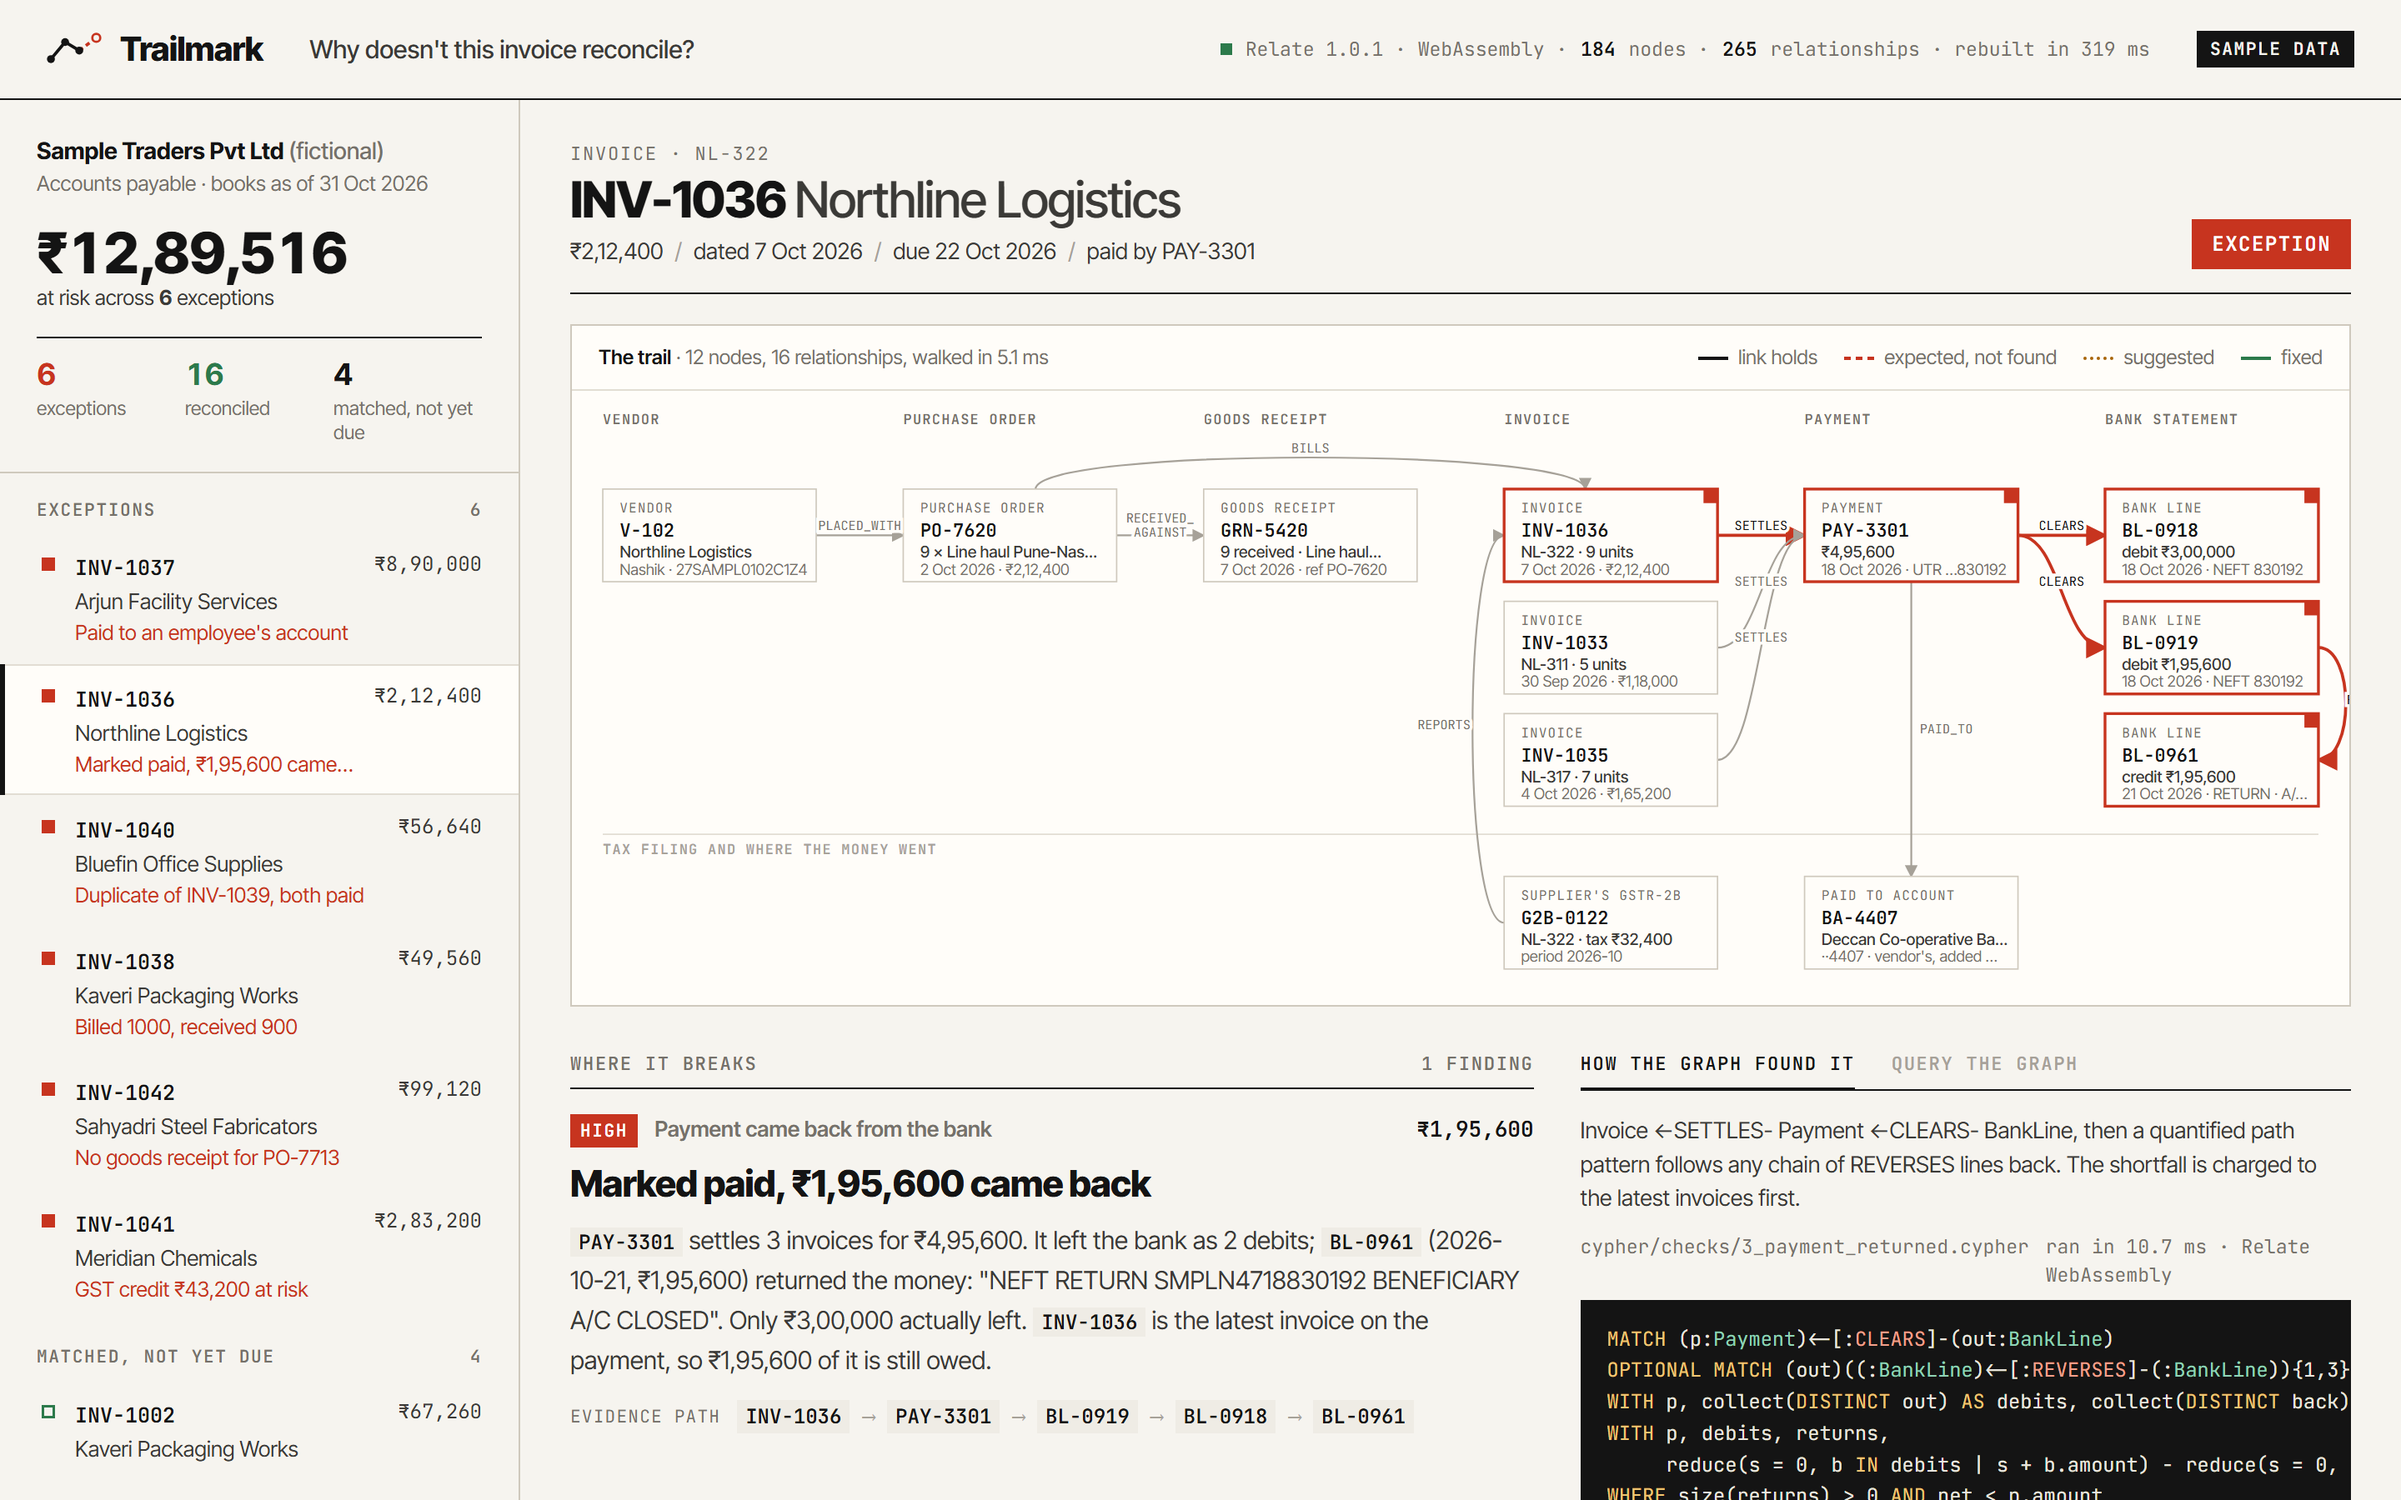
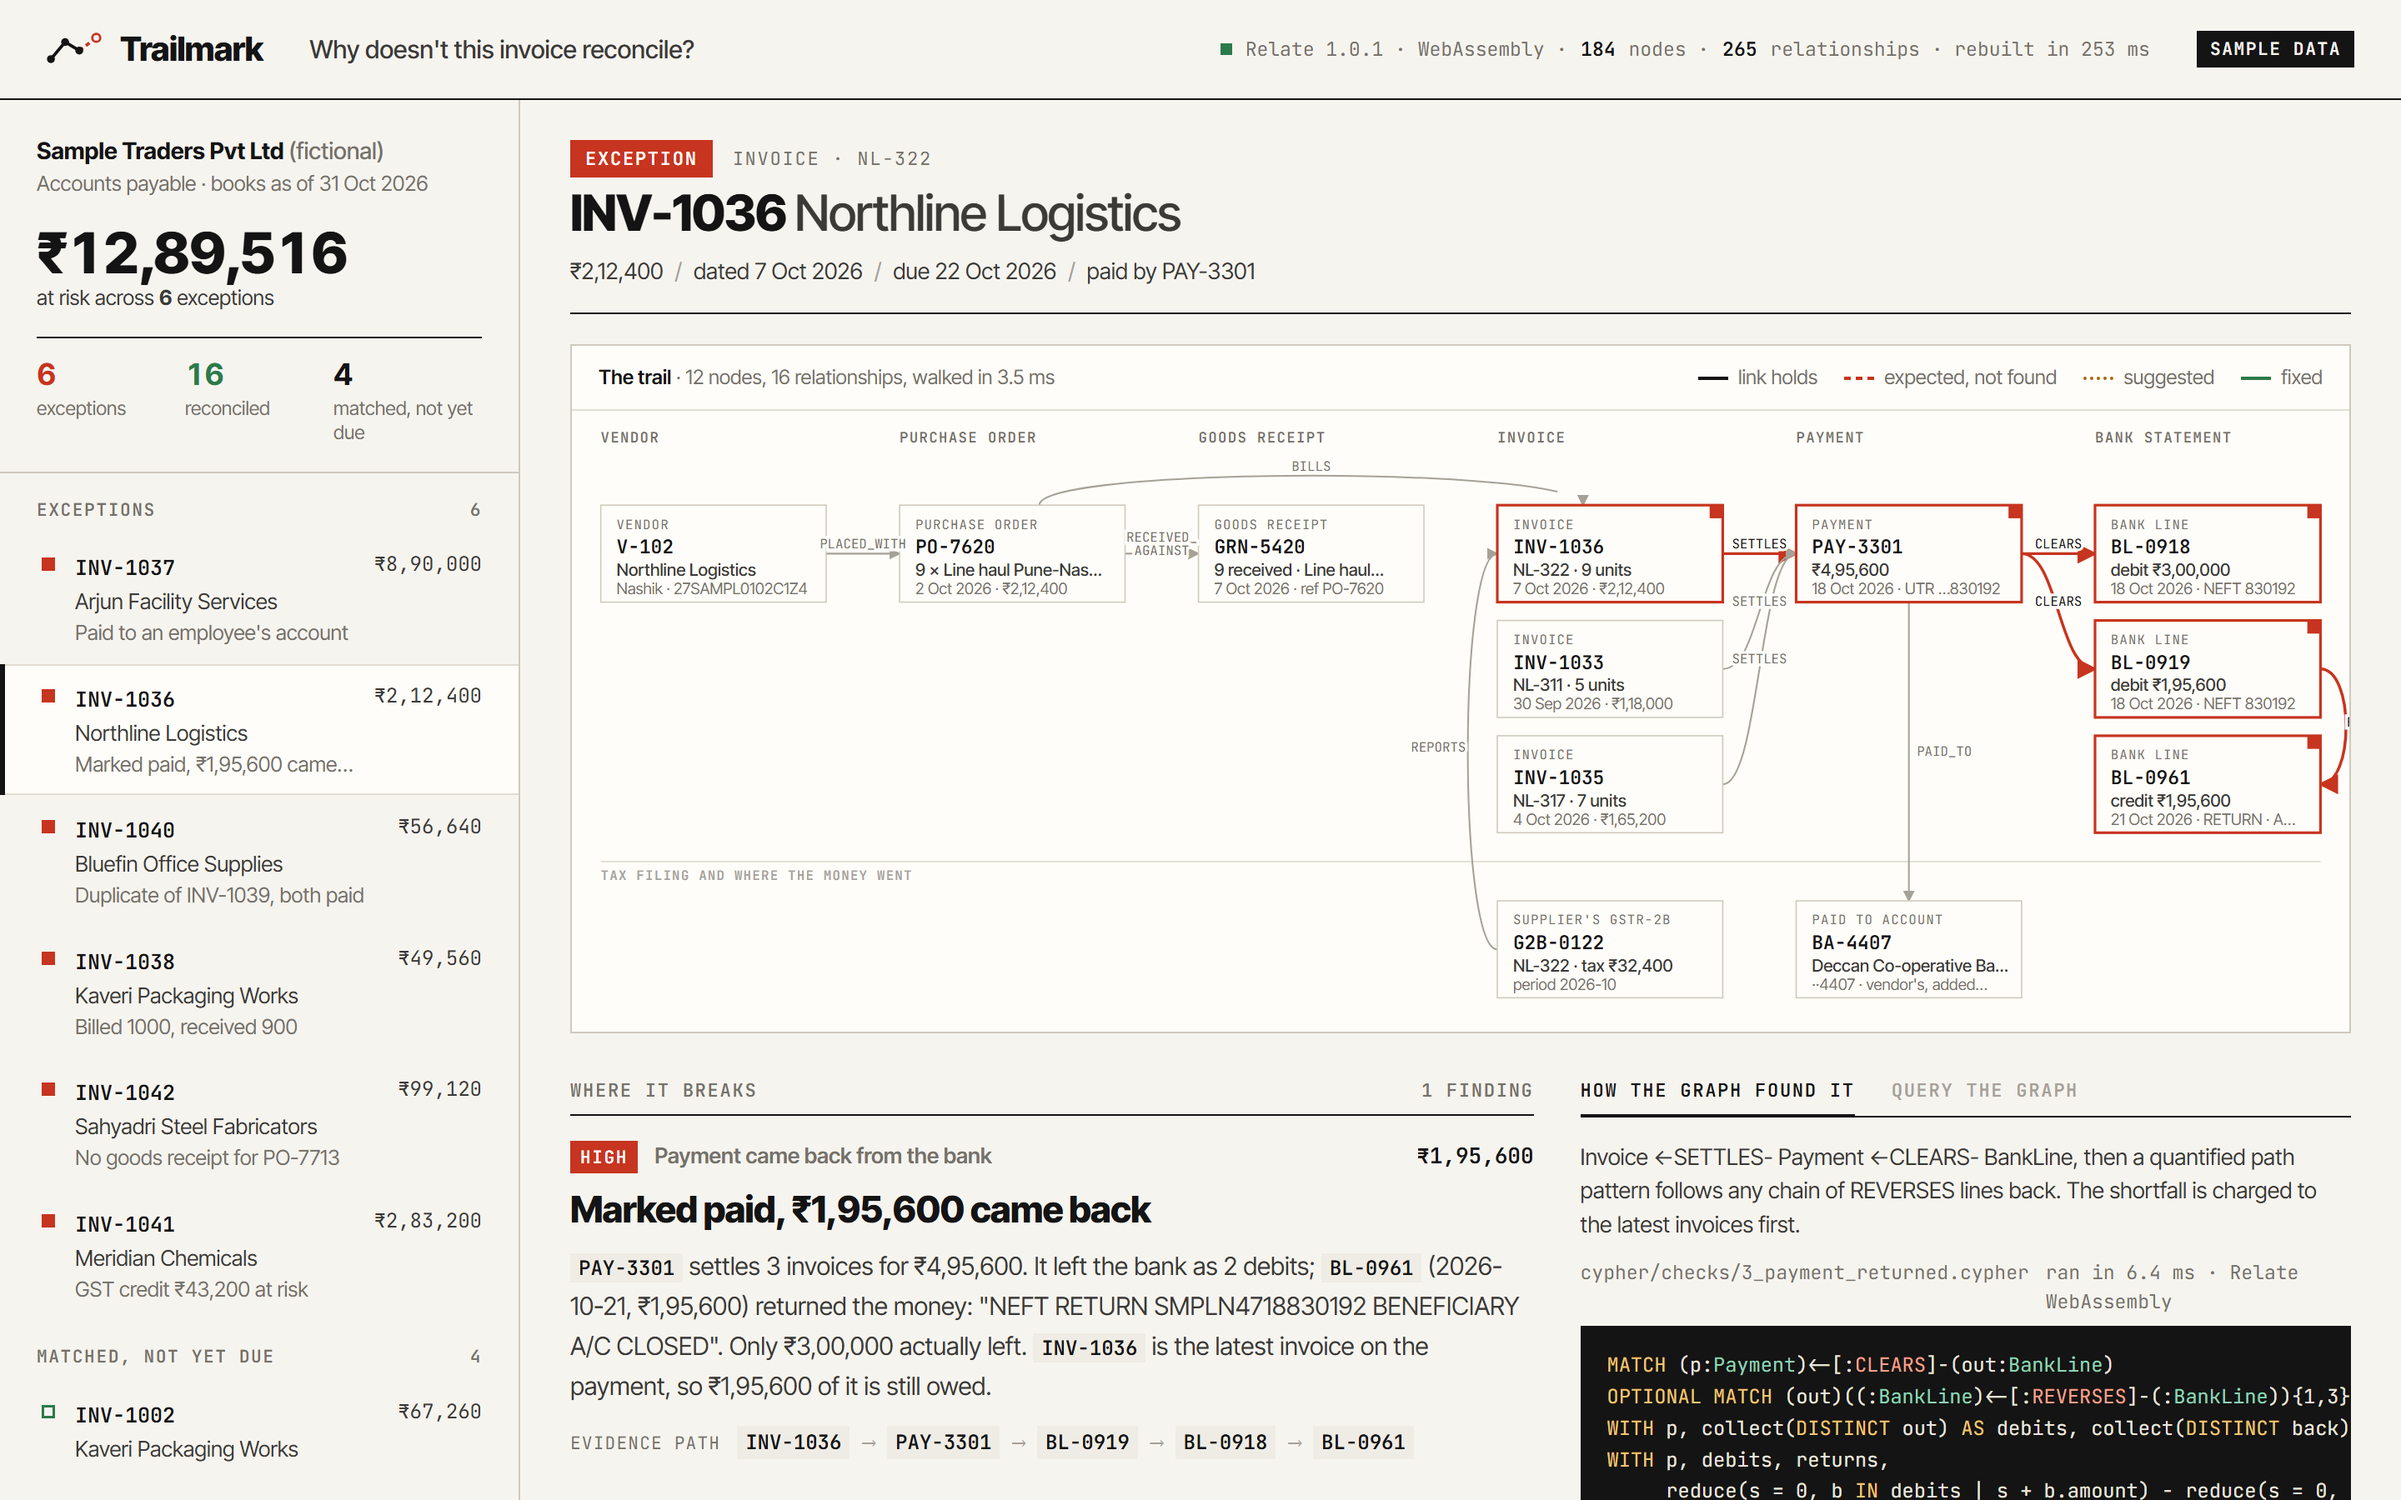
Design pass: larger trail text, anchored status, people laid out under the money

diff --git a/web/style.css b/web/style.css
@@ -75,7 +75,7 @@ button { font: inherit; color: inherit; }
 .row .who { min-width: 0; }
 .row .id { font-family: var(--mono); font-size: 12.5px; font-weight: 600; }
 .row .v { display: block; font-size: 13px; color: var(--ink-2); white-space: nowrap; overflow: hidden; text-overflow: ellipsis; }
-.row .why { display: block; font-size: 12.5px; color: var(--red); white-space: nowrap; overflow: hidden; text-overflow: ellipsis; }
+.row .why { display: block; font-size: 12.5px; color: var(--ink-3); white-space: nowrap; overflow: hidden; text-overflow: ellipsis; }
 .row .amt { font-family: var(--mono); font-size: 12px; padding-top: 1px; color: var(--ink-2); font-variant-numeric: tabular-nums; }
 
 /* ---------- stage ---------- */
@@ -83,13 +83,14 @@ button { font: inherit; color: inherit; }
 .ld-line { height: 2px; background: linear-gradient(90deg, var(--ink) 0 30%, transparent 30%); background-size: 200% 100%; animation: ld 1s linear infinite; margin-bottom: 14px; }
 @keyframes ld { from { background-position: 100% 0; } to { background-position: -100% 0; } }
 
-.inv-head { display: grid; grid-template-columns: minmax(0, 1fr) auto; gap: 18px; align-items: end; padding-bottom: 14px; border-bottom: 1px solid var(--ink); }
+.inv-head { display: block; padding-bottom: 14px; border-bottom: 1px solid var(--ink); }
 .inv-kicker { font-family: var(--mono); font-size: 11px; letter-spacing: .08em; text-transform: uppercase; color: var(--ink-3); }
-.inv-title { margin: 2px 0 0; font-size: 30px; font-weight: 800; letter-spacing: -.025em; line-height: 1.15; }
+.inv-title { margin: 4px 0 8px; font-size: 30px; font-weight: 800; letter-spacing: -.025em; line-height: 1.15; }
 .inv-title .vn { font-weight: 500; color: var(--ink-2); }
 .inv-meta { margin-top: 4px; font-size: 13.5px; color: var(--ink-2); }
 .inv-meta .sep { color: var(--ink-4); margin: 0 7px; }
-.status { font-family: var(--mono); font-size: 12px; font-weight: 600; letter-spacing: .06em; text-transform: uppercase; padding: 6px 12px; white-space: nowrap; transition: background .35s, color .35s; }
+.inv-kicker { display: flex; align-items: center; gap: 12px; }
+.status { font-family: var(--mono); font-size: 11px; font-weight: 700; letter-spacing: .08em; text-transform: uppercase; padding: 3px 9px; white-space: nowrap; transition: background .35s, color .35s; }
 .status.exception { background: var(--red); color: #fff; }
 .status.matched, .status.reconciled { background: var(--green); color: #fff; }
 .status.overdue { background: var(--amber); color: #fff; }
@@ -105,7 +106,7 @@ button { font: inherit; color: inherit; }
 .legend i.ok { border-top-color: var(--green); }
 .trail-scroll { overflow-x: auto; }
 svg.trail { display: block; width: 100%; min-width: 900px; height: auto; font-family: var(--sans); }
-.lane-h { font-family: var(--mono); font-size: 10px; font-weight: 600; letter-spacing: .08em; text-transform: uppercase; fill: var(--ink-3); }
+.lane-h { font-family: var(--mono); font-size: 11px; font-weight: 600; letter-spacing: .08em; text-transform: uppercase; fill: var(--ink-3); }
 .lane-rule { stroke: var(--rule); stroke-width: 1; }
 .band-h { font-family: var(--mono); font-size: 10px; font-weight: 600; letter-spacing: .08em; text-transform: uppercase; fill: var(--ink-4); }
 
@@ -113,14 +114,14 @@ svg.trail { display: block; width: 100%; min-width: 900px; height: auto; font-fa
 .card.ev rect.box { stroke: var(--ink); stroke-width: 1.6; }
 .card.ev.high rect.box { stroke: var(--red); stroke-width: 2; }
 .card.focus rect.box { stroke: var(--ink); stroke-width: 2.4; }
-.card.ghost rect.box { fill: var(--red-bg); stroke: var(--red); stroke-width: 1.6; stroke-dasharray: 5 4; }
+.card.ghost rect.box { fill: #f9ddd7; stroke: var(--red); stroke-width: 2.2; stroke-dasharray: 6 4; }
 .card.cand rect.box { fill: var(--amber-bg); stroke: var(--amber); stroke-width: 1.6; stroke-dasharray: 2 3; }
 .card.fixed rect.box { fill: var(--green-bg); stroke: var(--green); stroke-width: 2; stroke-dasharray: none; }
 .card.dim { opacity: .55; }
-.card .k { font-family: var(--mono); font-size: 9.5px; letter-spacing: .07em; text-transform: uppercase; fill: var(--ink-3); }
-.card .i { font-family: var(--mono); font-size: 13px; font-weight: 600; fill: var(--ink); }
-.card .l1 { font-size: 11.5px; fill: var(--ink-2); font-weight: 500; }
-.card .l2 { font-size: 11px; fill: var(--ink-3); }
+.card .k { font-family: var(--mono); font-size: 10px; letter-spacing: .07em; text-transform: uppercase; fill: var(--ink-3); }
+.card .i { font-family: var(--mono); font-size: 14.5px; font-weight: 600; fill: var(--ink); }
+.card .l1 { font-size: 13px; fill: var(--ink-2); font-weight: 500; }
+.card .l2 { font-size: 12px; fill: var(--ink-3); }
 .card.ghost .k, .card.ghost .l1, .card.ghost .i { fill: var(--red); }
 .card.cand .k { fill: var(--amber); }
 .card .flag { fill: var(--red); }
@@ -131,14 +132,15 @@ svg.trail { display: block; width: 100%; min-width: 900px; height: auto; font-fa
 .edge { fill: none; stroke: var(--ink-4); stroke-width: 1.3; }
 .edge.ev { stroke: var(--ink); stroke-width: 1.8; }
 .edge.ev.high { stroke: var(--red); stroke-width: 2.2; }
-.edge.brk { stroke: var(--red); stroke-width: 2; stroke-dasharray: 6 5; }
+.edge.brk { stroke: var(--red); stroke-width: 3; stroke-dasharray: 7 5; animation: march 0.9s linear infinite !important; }
+@keyframes march { to { stroke-dashoffset: -24; } }
 .edge.sug { stroke: var(--amber); stroke-width: 2; stroke-dasharray: 1.5 4; stroke-linecap: round; }
 .edge.fixed { stroke: var(--green); stroke-width: 2.6; }
 .edge.draw { stroke-dasharray: var(--len); stroke-dashoffset: var(--len); animation: draw .5s ease-out forwards; }
 .edge.brk.draw, .edge.sug.draw { animation: none; stroke-dasharray: 6 5; stroke-dashoffset: 0; }
 .edge.sug.draw { stroke-dasharray: 1.5 4; }
 @keyframes draw { to { stroke-dashoffset: 0; } }
-.elabel { font-family: var(--mono); font-size: 9px; fill: var(--ink-3); paint-order: stroke; stroke: var(--card); stroke-width: 4px; }
+.elabel { font-family: var(--mono); font-size: 10px; fill: var(--ink-3); paint-order: stroke; stroke: var(--card); stroke-width: 4px; }
 .elabel.ev { fill: var(--ink); }
 .elabel.brk { fill: var(--red); font-weight: 600; }
 .elabel.sug { fill: var(--amber); font-weight: 600; }
@@ -214,6 +216,7 @@ table.res td { border-bottom: 1px solid var(--rule); padding: 5px 8px 5px 0; fon
 }
 
 @media (prefers-reduced-motion: reduce) {
+  .edge.brk { animation: none !important; }
   .card.appear, .edge.draw { animation: none !important; stroke-dashoffset: 0; }
   .edge.draw:not(.brk):not(.sug) { stroke-dasharray: none; }
 }

diff --git a/web/app.js b/web/app.js
@@ -113,7 +113,7 @@ const SLOT = { Vendor: [0, 0], PurchaseOrder: [1, 0], GoodsReceipt: [2, 0], Invo
   GstrLine: [3, 1], BankAccount: [4, 1], BankChange: [5, 1], Employee: [5, 2] };
 const KIND = { Vendor: 'Vendor', PurchaseOrder: 'Purchase order', GoodsReceipt: 'Goods receipt', Invoice: 'Invoice', Payment: 'Payment',
   BankLine: 'Bank line', GstrLine: "Supplier's GSTR-2B", BankAccount: 'Paid to account', BankChange: 'Bank detail change', Employee: 'Employee' };
-const W = 152, H = 66, GX = 62, PADX = 22, TOP = 70, VG = 14, BAND = 50;
+const W = 172, H = 74, GX = 56, PADX = 22, TOP = 72, VG = 14, BAND = 52;
 
 function lines(n) {
   const p = n.props;
@@ -140,8 +140,13 @@ function layout(ex) {
   const since = Object.fromEntries(ex.rels.filter((r) => r.type === 'HAS_ACCOUNT' && /^V-/.test(r.from)).map((r) => [r.to, r.props.since]));
   const items = [...ghosts, ...ex.nodes.map((n) => ({ ...n, vendorSince: since[n.id] }))];
   const bySlot = {};
+  // people sit side by side under the money, the most-connected one under the account
+  const deg = (id) => ex.rels.filter((r) => r.from === id || r.to === id).length;
+  const people = items.filter((it) => it.label === 'Employee').sort((a, b) => deg(b.id) - deg(a.id) || a.id.localeCompare(b.id));
+  const PEOPLE_COLS = [4, 5, 3, 2, 1];
+  people.forEach((it, i) => { it.slot = [PEOPLE_COLS[i % 5], 2]; });
   for (const it of items) {
-    const s = SLOT[it.label]; if (!s) continue;
+    const s = it.slot || SLOT[it.label]; if (!s) continue;
     const key = s.join(',');
     (bySlot[key] ||= []).push(it);
   }
@@ -206,7 +211,7 @@ function renderTrail(ex, animate) {
     if (Object.values(L.pos).some((p) => p.it.label === label)) return;
     const x = PADX + c * (W + GX), y = L.rowY[0];
     const note = (label === 'Payment' || label === 'BankLine') && ex.inv.due > S.Q.as_of ? `none yet · due ${nice(ex.inv.due)}` : 'none';
-    cards += `<g class="card dim"><rect class="box" x="${x}" y="${y}" width="${W}" height="${H}" style="stroke-dasharray:2 3"/><text class="l2" x="${x + 12}" y="${y + 38}">${note}</text></g>`;
+    cards += `<g class="card dim"><rect class="box" x="${x}" y="${y}" width="${W}" height="${H}" style="stroke-dasharray:2 3"/><text class="l2" x="${x + 12}" y="${y + 42}">${note}</text></g>`;
   });
   let k = 0;
   const edge = (a, b, cls, label, delay) => {
@@ -244,7 +249,7 @@ function renderTrail(ex, animate) {
       cards += `<g class="card ghost${animate ? ' appear' : ''}" style="animation-delay:${delay + 260}ms" data-id="${it.id}">
         <rect class="box" x="${x}" y="${y}" width="${W}" height="${H}"/>
         <text class="k" x="${x + 12}" y="${y + 18}">Expected · not found</text>
-        ${wrapWords(it.text.replace('expected: ', ''), 22).slice(0, 2).map((t, i) => `<text class="l1" x="${x + 12}" y="${y + 38 + i * 15}">${esc(t)}</text>`).join('')}</g>`;
+        ${wrapWords(it.text.replace('expected: ', ''), 21).slice(0, 2).map((t, i) => `<text class="l1" x="${x + 12}" y="${y + 40 + i * 17}">${esc(t)}</text>`).join('')}</g>`;
       continue;
     }
     const [l1, l2] = lines(it);
@@ -255,10 +260,10 @@ function renderTrail(ex, animate) {
     const kind = isCand ? 'Candidate · unlinked receipt' : isFixed ? 'Goods receipt · linked' : KIND[it.label];
     cards += `<g class="${cls}" style="animation-delay:${delay}ms" data-id="${it.id}">
       <rect class="box" x="${x}" y="${y}" width="${W}" height="${H}"/>
-      <text class="k" x="${x + 12}" y="${y + 17}">${esc(kind)}</text>
-      <text class="i" x="${x + 12}" y="${y + 34}">${esc(it.id)}</text>
-      <text class="l1" x="${x + 12}" y="${y + 49}">${esc(trunc(l1, 23))}</text>
-      <text class="l2" x="${x + 12}" y="${y + 61}">${esc(trunc(l2, 26))}</text>
+      <text class="k" x="${x + 12}" y="${y + 18}">${esc(kind)}</text>
+      <text class="i" x="${x + 12}" y="${y + 37}">${esc(it.id)}</text>
+      <text class="l1" x="${x + 12}" y="${y + 54}">${esc(trunc(l1, 23))}</text>
+      <text class="l2" x="${x + 12}" y="${y + 68}">${esc(trunc(l2, 25))}</text>
       ${ev && !isFixed ? `<rect class="flag" x="${x + W - 10}" y="${y}" width="10" height="10"/>` : ''}</g>`;
   }
   const marker = (id, color) => `<marker id="arr-${id}" viewBox="0 0 8 8" refX="7" refY="4" markerWidth="7" markerHeight="7" orient="auto-start-reverse"><path d="M0 0 L8 4 L0 8 z" fill="${color}"/></marker>`;
@@ -308,11 +313,10 @@ function renderStage(animate = true) {
   $('#stage').innerHTML = `
     <div class="inv-head">
       <div>
-        <div class="inv-kicker">Invoice · ${esc(inv.vendor_no)}</div>
+        <div class="inv-kicker"><span class="status ${ex.status}" id="status">${statusText}</span><span>Invoice · ${esc(inv.vendor_no)}</span></div>
         <h1 class="inv-title">${inv.id} <span class="vn">${esc(inv.vendor)}</span></h1>
         <div class="inv-meta">${inr(inv.total)}<span class="sep">/</span>dated ${nice(inv.date)}<span class="sep">/</span>due ${nice(inv.due)}<span class="sep">/</span>${inv.payments.length ? 'paid by ' + inv.payments.join(', ') : 'unpaid'}</div>
       </div>
-      <div class="status ${ex.status}" id="status">${statusText}</div>
     </div>
     <div class="trail-wrap">
       <div class="trail-cap"><span><b>The trail</b> · ${ex.nodes.length} nodes, ${ex.rels.length} relationships, walked in ${fmtMs(S.timings.trail)}</span>
